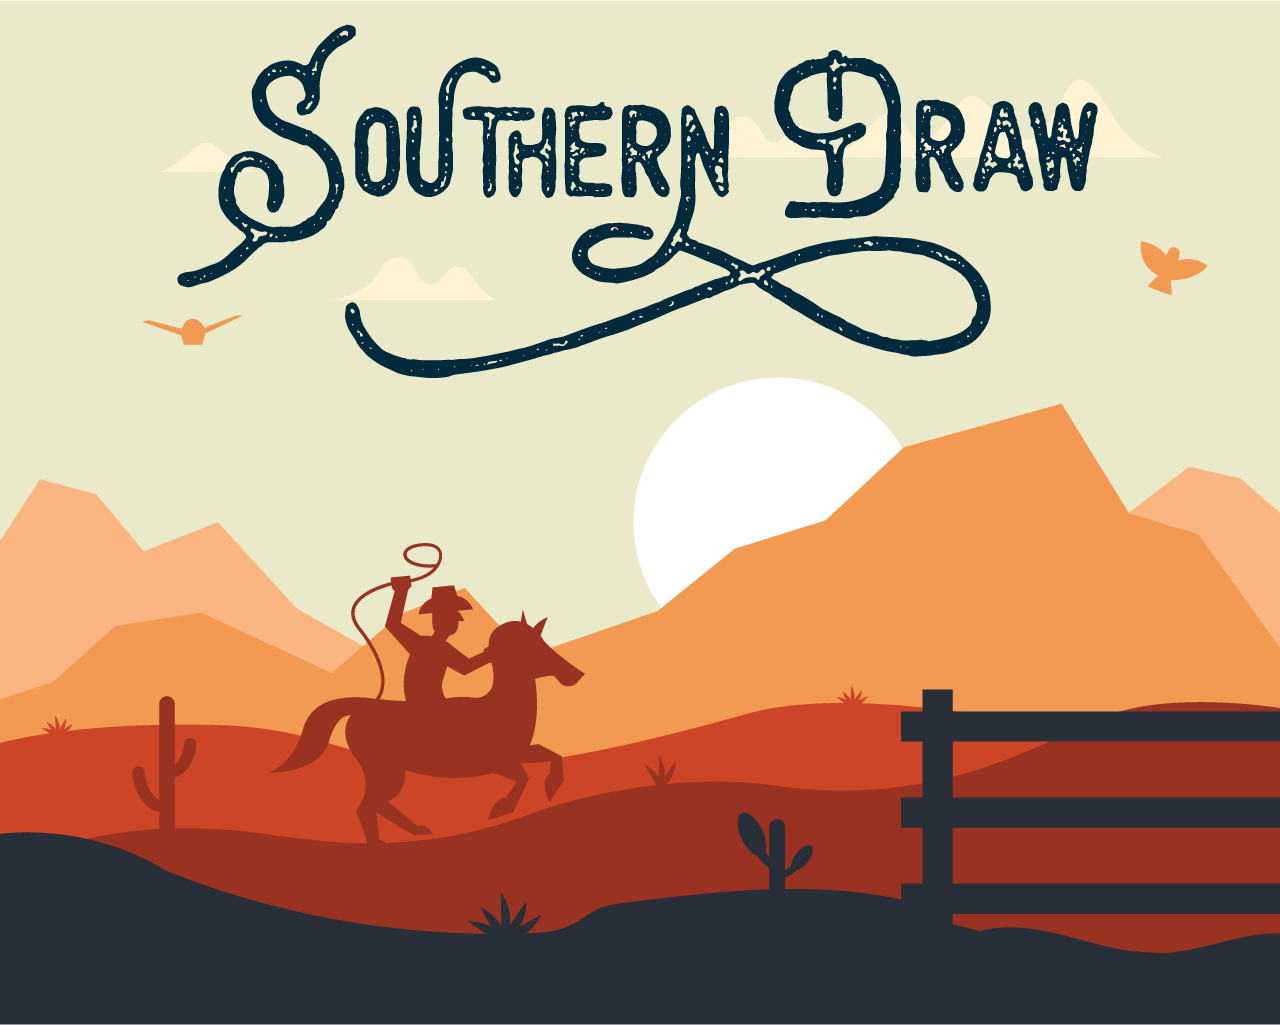
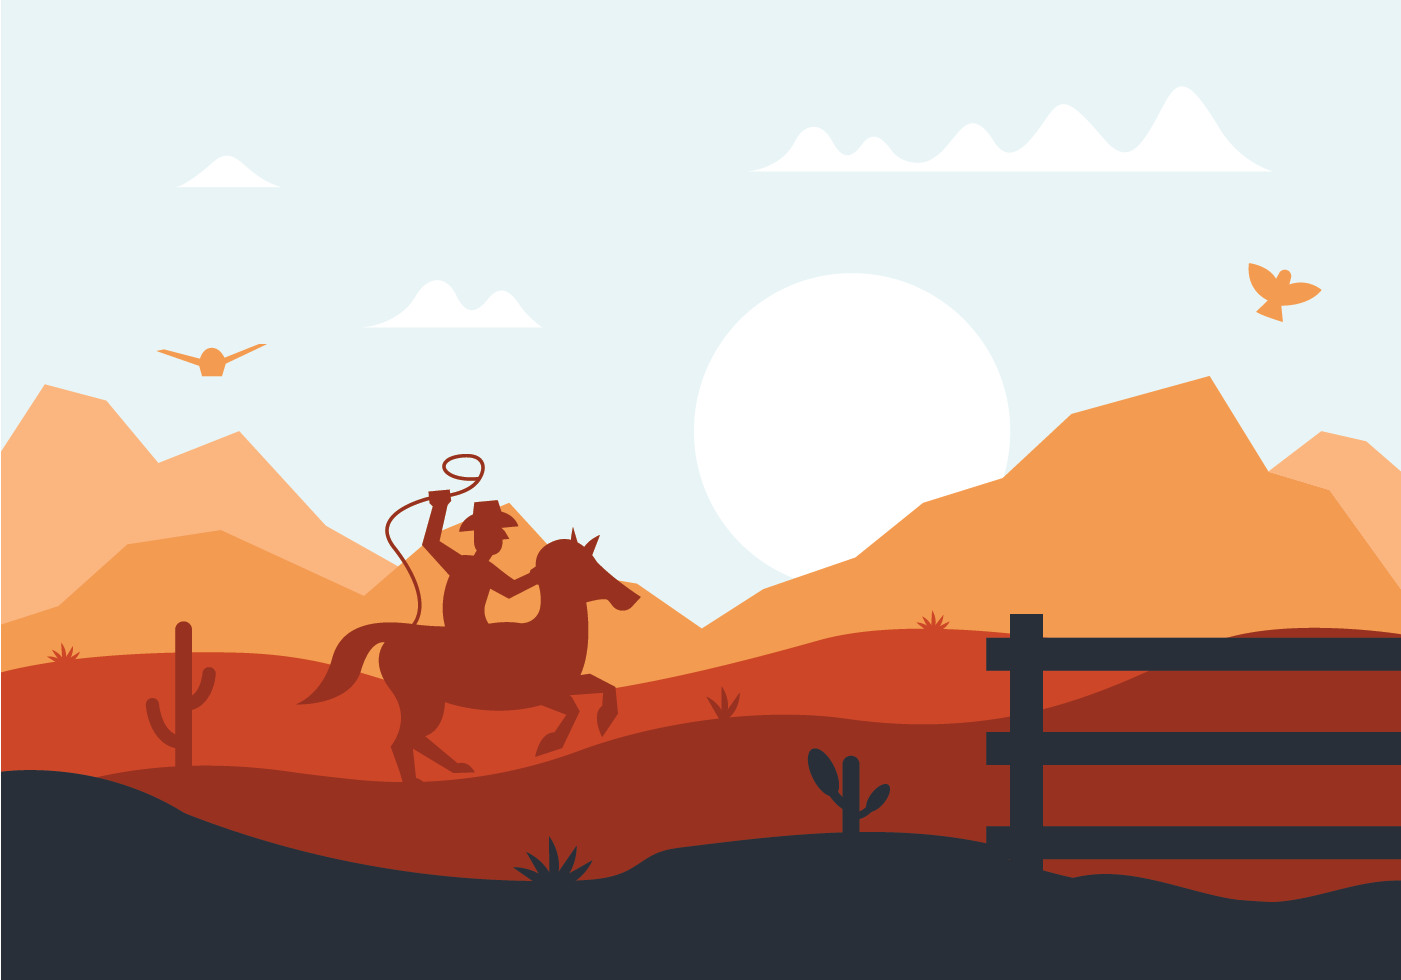
CSS changes

diff --git a/src/components/canvas.tsx b/src/components/canvas.tsx
@@ -27,7 +27,7 @@ class UserCanvas extends React.Component<UserCanvas.IProps, undefined> {
          )
       });
       return (
-         <STAGE width={440} height={737} className='sd-user-canvas'>
+         <STAGE width={300} height={500} className='sd-user-canvas'>
             <Layer>
                {lines}
             </Layer>

diff --git a/src/assets/scss/app.scss b/src/assets/scss/app.scss
@@ -143,3 +143,10 @@ body {
    background-color: #FFFFFF;
    border-radius: 5px;
 }
+
+.sd-user-canvas {
+  position: fixed;
+  top:120px;
+  background: url('../img/bg-no-logo.png') no-repeat center center fixed;
+
+}
